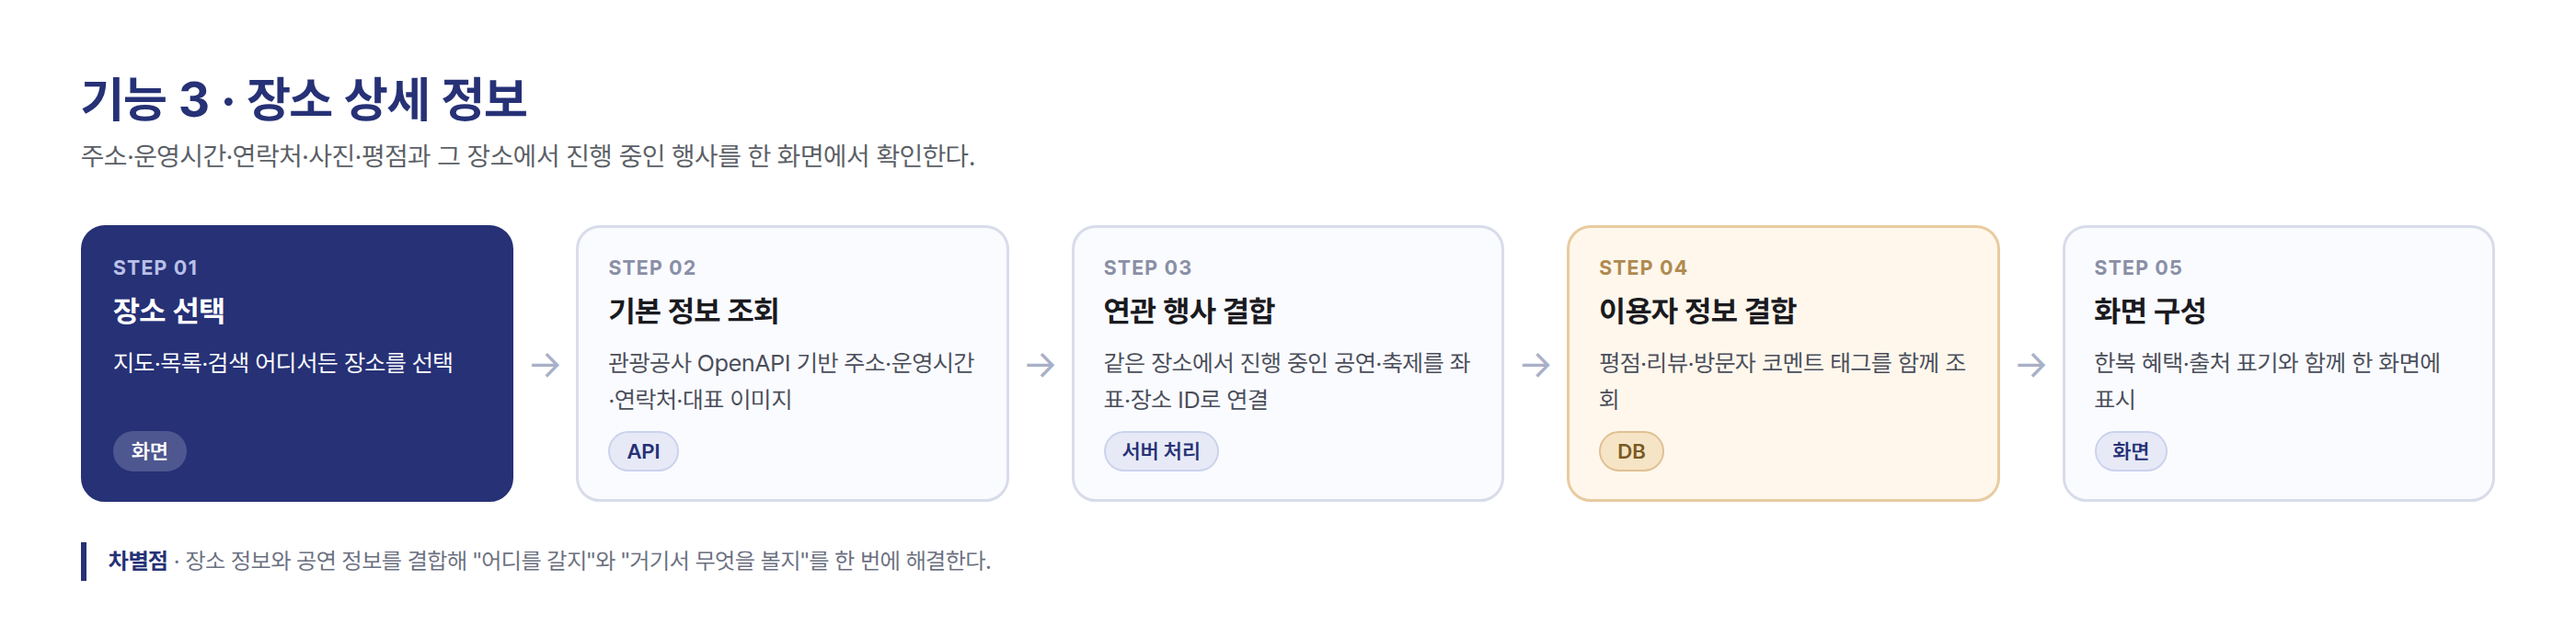
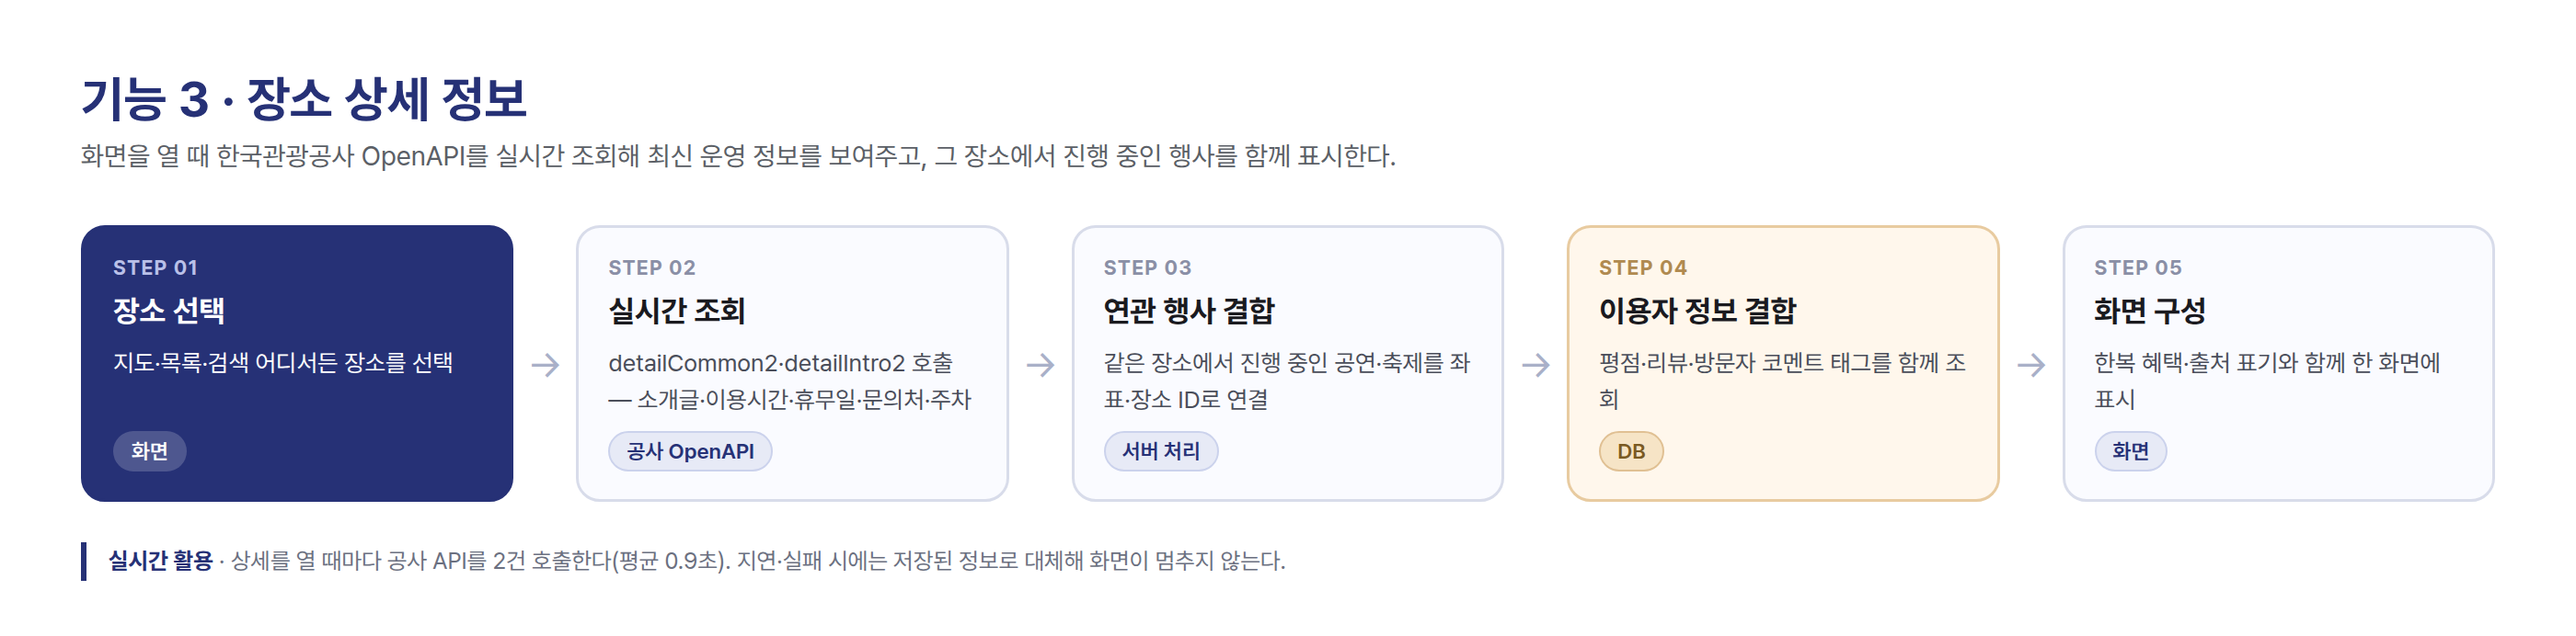
docs: 기능설명서 초안 + 실시간 조회 반영, 수치 갱신
공모전 지정 양식에 옮겨 적을 6개 항목 전체 초안을 추가한다. 서비스 개요,
주제 선정 이유, 핵심기능, 흐름도 설명, API 목록과 반영 화면, 차별성,
발전계획까지 채웠다. 다국어·지역특화처럼 사실이 아닌 항목은 넣지 않았다.

4번 데이터 활용은 실시간/정기 두 방식으로 나눠 적었다. 상세 화면의
detailCommon2·detailIntro2 실시간 호출과, 전국 지도 탐색을 위한 정기 수집을
구분해 로컬 DB 저장 방식을 택한 이유를 함께 밝힌다.

인증키가 8/1부터 막혀 있던 것을 복구하고 재동기화한 결과로 수치를 갱신했다.
  장소 29,466 → 29,541 · 행사 8,956 → 9,059 · 전통 행사 1,302 → 1,306

흐름도 3번(장소 상세)과 스토어 스크린샷도 실시간 조회가 반영된 화면으로
다시 만들었다.

점검 스크립트는 응답이 커서 일부만 읽으면 JSON 파싱이 실패하던 것을
resultCode 기준 판정으로 고쳤다(정상인데 "응답 이상"으로 나오던 문제).

Claude-Session: https://claude.ai/code/session_0189LLCe4HXZJT526WbUcYHm

diff --git a/docs/submission/flows.html b/docs/submission/flows.html
@@ -54,13 +54,13 @@ const FLOWS = {
       ["05","상세 이동","핀을 누르면 요약 카드 → 장소 상세 화면으로 이동","화면",0]],
    n:"<b>개인정보</b> · 획득한 좌표는 지도 중심 이동에만 쓰이며 서버로 전송·저장하지 않는다. <b>출처</b> · 장소 정보는 ⓒ한국관광공사."},
  f3:{t:"기능 3 · 장소 상세 정보",
-   u:"주소·운영시간·연락처·사진·평점과 그 장소에서 진행 중인 행사를 한 화면에서 확인한다.",
+   u:"화면을 열 때 한국관광공사 OpenAPI를 실시간 조회해 최신 운영 정보를 보여주고, 그 장소에서 진행 중인 행사를 함께 표시한다.",
    s:[["01","장소 선택","지도·목록·검색 어디서든 장소를 선택","화면",0],
-      ["02","기본 정보 조회","관광공사 OpenAPI 기반 주소·운영시간·연락처·대표 이미지","API",0],
+      ["02","실시간 조회","detailCommon2·detailIntro2 호출 — 소개글·이용시간·휴무일·문의처·주차","공사 OpenAPI",0],
       ["03","연관 행사 결합","같은 장소에서 진행 중인 공연·축제를 좌표·장소 ID로 연결","서버 처리",0],
       ["04","이용자 정보 결합","평점·리뷰·방문자 코멘트 태그를 함께 조회","DB",1],
       ["05","화면 구성","한복 혜택·출처 표기와 함께 한 화면에 표시","화면",0]],
-   n:"<b>차별점</b> · 장소 정보와 공연 정보를 결합해 \"어디를 갈지\"와 \"거기서 무엇을 볼지\"를 한 번에 해결한다."},
+   n:"<b>실시간 활용</b> · 상세를 열 때마다 공사 API를 2건 호출한다(평균 0.9초). 지연·실패 시에는 저장된 정보로 대체해 화면이 멈추지 않는다."},
  f4:{t:"기능 4 · 여행 일정 만들기",
    u:"가고 싶은 곳을 담아 하루 일정을 구성하고 실제 이동 경로와 소요 시간을 확인한다.",
    s:[["01","일정 생성","제목과 여행 날짜를 입력하거나 추천 코스를 그대로 복사","화면",0],

diff --git a/docs/submission/기능설명서-내용.md b/docs/submission/기능설명서-내용.md
@@ -1,0 +1,170 @@
+# 기능설명서 작성 내용 — 벼리
+
+> 공모전이 제공하는 **지정 양식(hwp/docx)에 아래 내용을 옮겨 적고 PDF로 변환**해 제출한다.
+> 임의 양식으로 제출하면 심사 대상에서 제외된다.
+> 수치는 2026-08-31 재동기화 직후 기준 실제 DB 집계값이다. 제출 직전에 다시 확인할 것.
+
+---
+
+## 1. 서비스 소개
+
+### ① 서비스명
+벼리
+
+### ② 서비스 유형
+웹
+
+### ③ 서비스 개요
+
+전국의 관광 명소와 전통 공연·축제 정보를 한곳에 모아 지도에서 찾아보는 한국 전통문화 여행 가이드입니다.
+
+한국관광공사 OpenAPI의 관광지·문화시설·축제 정보와 공연 정보를 결합해, 국악·전통무용·마당극 등 전통을 주제로 한 행사를 별도로 분류하고 주변 명소와 함께 지도에 표시합니다. 마음에 드는 곳을 담아 하루 일정을 만들고 실제 이동 경로와 소요 시간까지 확인할 수 있습니다.
+
+장소와 공연을 찾아보는 기능은 로그인 없이 모두 이용할 수 있으며, 즐겨찾기·리뷰·여행 일정 저장만 로그인이 필요합니다.
+
+### ④ 주제 선정 이유
+
+전통 공연·축제 정보와 관광 명소 정보는 서로 다른 기관이 각각 제공하고 있어 흩어져 있습니다. 국악 공연을 보러 가면서 근처 고궁이나 한옥 카페를 함께 둘러보고 싶어도, 공연 정보 사이트와 관광 정보 사이트를 따로 오가며 위치를 대조해야 합니다.
+
+전통문화를 접하는 일이 번거로운 이유는 콘텐츠가 부족해서가 아니라 **정보가 연결되어 있지 않기 때문**이라고 보았습니다. 실제로 한국관광공사 OpenAPI에는 전국 관광 정보가, 공연예술통합전산망에는 공연 정보가 충분히 공개되어 있습니다.
+
+벼리는 이 둘을 하나의 지도 위에 결합해, 전통문화를 '보러 가는 일'이 아니라 '여행하는 일'로 만들고자 했습니다. 이름 '벼리'는 그물을 오므렸다 폈다 하는 굵은 줄을 뜻하는 순우리말로, 흩어진 정보를 하나로 엮는다는 뜻을 담았습니다.
+
+### ⑤ 서비스 핵심기능
+
+1. **전통 테마 행사 큐레이션** — 공연·축제 데이터에서 전통을 주제로 한 행사만 자동 분류해 1,306건 제공
+2. **지도 기반 주변 탐색** — 현재 위치 중심으로 관광지·문화시설·공연장·음식점을 지도에 표시
+3. **장소 상세 정보** — 한국관광공사 OpenAPI 실시간 조회로 소개글·이용시간·휴무일·문의처를 최신 값으로 표시하고, 그 장소에서 진행 중인 행사를 함께 확인
+4. **여행 일정 만들기** — 방문지를 담아 하루 일정을 구성하고 실제 이동 경로·소요 시간 확인
+5. **리뷰와 이용자 보호** — 방문 후기 작성, 부적절한 콘텐츠 신고 및 이용자 차단
+
+### ⑥ 서비스 대표 이미지 (1장)
+`docs/store/feature-graphic-1024x500.png`
+
+### ⑦ 서비스 상세 이미지 (3~5장)
+1. `docs/store/screenshots/01-home.png` — 홈: 오늘의 추천·전통 테마 행사·맞춤 추천
+2. `docs/store/screenshots/02-traditional-events.png` — 전통 테마 행사 목록
+3. `docs/store/screenshots/03-venue-detail.png` — 장소 상세: 한복 혜택·운영시간·진행 중인 행사
+4. `docs/store/screenshots/04-explore.png` — 루트 탐색
+
+---
+
+## 2. [선택] 지역 특화 서비스 구현 세부내용
+
+**해당 없음** — 전국 단위 서비스입니다.
+
+> 지역특화 가점(2점)은 전국 단위 서비스에는 적용되지 않으며 서울도 제외 대상입니다.
+> 본 서비스는 전국 29,541곳을 대상으로 하므로 해당 항목을 작성하지 않습니다.
+
+---
+
+## 3. 서비스 핵심 기능별 흐름도
+
+> 흐름도 이미지 5장: `docs/submission/flows/01~05*.png`
+
+### ① 핵심 기능명 및 설명
+
+**기능 1 · 전통 테마 행사 큐레이션**
+공연·축제 데이터에서 전통을 주제로 한 행사만 자동 분류해 별도로 제공합니다. 장르 코드만으로는 분류가 어려워 제목과 주최기관 키워드를 함께 검사합니다. 현재 1,306건이 전통 행사로 분류되어 있습니다.
+
+**기능 2 · 지도 기반 주변 탐색**
+현재 위치를 중심으로 주변 관광지·문화시설·공연장·음식점을 지도에 표시합니다. 카테고리와 한복 혜택 여부로 걸러볼 수 있습니다. 위치 정보는 지도 중심을 옮기는 데만 사용하며 서버로 전송하거나 저장하지 않습니다.
+
+**기능 3 · 장소 상세 정보**
+주소·사진·평점과 함께, 화면을 열 때 한국관광공사 OpenAPI를 실시간 조회해 소개글·이용시간·휴무일·문의처·주차 정보를 최신 값으로 보여줍니다. 같은 장소에서 진행 중인 공연·축제도 함께 표시해, 장소 정보와 행사 정보를 오가지 않아도 됩니다.
+
+**기능 4 · 여행 일정 만들기**
+가고 싶은 곳을 담아 하루 일정을 구성합니다. 방문 순서를 정하면 카카오모빌리티 길찾기로 실제 이동 경로를 계산해 구간별 색상으로 지도에 그리고 총 거리와 소요 시간을 보여줍니다.
+
+**기능 5 · 리뷰와 이용자 보호**
+방문 후기를 별점과 함께 남깁니다. 부적절한 리뷰나 장소는 사유와 함께 신고할 수 있고, 특정 이용자를 차단하면 그 사람이 쓴 리뷰가 보이지 않습니다. 차단 목록은 마이페이지에서 관리하며 언제든 해제할 수 있습니다.
+
+### ② 기능 흐름도
+(위 이미지 5장 삽입)
+
+---
+
+## 4. 데이터 활용 (한국관광공사 OpenAPI)
+
+### ① 서비스 개발에 활용한 한국관광공사 OpenAPI 리스트
+
+**서비스명**: 한국관광공사_국문 관광정보 서비스_GW
+**Base URL**: `https://apis.data.go.kr/B551011/KorService2/`
+
+본 서비스는 공사 OpenAPI를 **두 가지 방식으로 함께** 활용합니다.
+
+**(1) 실시간 조회** — 사용자가 장소 상세 화면을 열 때마다 호출
+
+| 오퍼레이션 | 활용 내용 | 반영 화면 |
+|---|---|---|
+| `detailCommon2` | 장소 소개글·홈페이지를 요청 시점에 조회 | 장소 상세 상단 소개글 |
+| `detailIntro2` | 이용시간·휴무일·문의처·주차 정보를 요청 시점에 조회 | 장소 상세 정보 영역 |
+
+목록 데이터에 포함되지 않는 항목이라 상세 화면에서 공사 API를 직접 조회해 최신 값을 표시합니다. 장소 하나를 열 때 2건이 호출되며, 평균 응답은 약 0.9초입니다. 조회가 지연되거나 실패하면(연결 2초·읽기 3초 제한) 화면이 멈추지 않도록 저장된 정보로 대체해 표시합니다.
+
+**(2) 정기 수집** — 전국 단위 지도·목록 탐색을 위한 사전 수집
+
+| 오퍼레이션 | 활용 내용 | 반영 화면 |
+|---|---|---|
+| `areaBasedList2` | 지역 기반 관광지·문화시설·음식점·숙박 정보 | 홈 맞춤 추천, 지도 주변 탐색, 검색 |
+| `searchFestival2` | 행사·축제 정보 | 홈 전통 테마 행사, 전통 행사 목록, 장소 상세의 진행 중인 행사 |
+| `ldongCode2` | 법정동 코드 조회 (주소 → 지역 매핑) | 지역별 탐색 필터 |
+| `lDongSignguCd` | 시군구 코드 조회 | 지역별 탐색 필터 |
+
+지도에서 다수 지점을 동시에 표시하고 카테고리·지역으로 즉시 거르려면 매 요청마다 전국 데이터를 호출할 수 없어, 매일 정기 동기화로 수집한 뒤 서비스에 반영합니다.
+
+**활용 규모**: 위 API로 수집한 장소 29,535건, 축제·행사 368건이 서비스에 반영되어 있으며, 이 중 29,533곳은 공사 콘텐츠 ID를 보유해 상세 화면에서 실시간 조회가 이루어집니다.
+
+**출처 표기**: 장소 상세 화면과 마이페이지 '데이터 출처' 항목에 `출처: ⓒ한국관광공사`로 표기하고 있습니다. API 서비스명 단독 표기는 사용하지 않았습니다.
+
+---
+
+## 5. [선택] 데이터 활용 (기타)
+
+| 데이터 | 제공 | 활용 내용 |
+|---|---|---|
+| 공연예술통합전산망(KOPIS) | (재)예술경영지원센터 | 공연 정보 7,953건 — 전통 공연 분류의 기반 |
+| 서울시 문화행사 정보 | 서울시 열린데이터광장 | 문화행사 737건 |
+| 카카오맵 API | 카카오 | 지도 표시, 장소 키워드 검색 |
+| 카카오모빌리티 길찾기 API | 카카오모빌리티 | 여행 일정의 이동 경로·소요 시간 계산 |
+
+---
+
+## 6. 서비스 차별성 & 발전계획
+
+### ① 서비스 차별성
+
+**1. 장소 정보와 공연 정보의 결합**
+대부분의 관광 서비스는 장소 정보만, 또는 공연 정보만 다룹니다. 벼리는 한국관광공사 OpenAPI의 장소 데이터와 공연 데이터를 좌표·장소 정보 기준으로 연결해, 장소 상세 화면에서 "여기서 지금 무엇이 열리는지"를 함께 보여줍니다. "어디를 갈지"와 "거기서 무엇을 볼지"를 한 번에 해결합니다.
+
+**2. 전통 행사 자동 분류**
+공공데이터는 전통 행사를 따로 구분해 주지 않습니다. 장르 코드(국악·전통무용·마당극)만으로는 놓치는 행사가 많아, 제목과 주최기관 키워드를 함께 검사하는 분류 규칙을 만들어 1,306건을 전통 행사로 선별했습니다.
+
+**3. 한복 착용 혜택 정보**
+한복을 입으면 무료 입장이나 할인이 되는 장소를 별도로 표시해, 전통문화 체험이 하나의 동선으로 이어지도록 했습니다.
+
+**4. 실시간 조회와 정기 수집의 병행**
+전국 단위 지도 탐색은 빠른 응답이 필요해 정기 수집한 데이터로 제공하고, 개별 장소의 운영 정보(이용시간·휴무일·문의처·주차)는 상세 화면을 열 때 공사 OpenAPI를 실시간 조회해 최신 값을 보여줍니다. 속도와 최신성을 함께 확보하기 위한 구조입니다.
+
+**5. 진입 장벽 없는 이용**
+장소·공연 조회, 지도 탐색은 로그인 없이 모두 이용할 수 있습니다. 개인 정보를 남기지 않고도 서비스의 핵심 가치를 경험할 수 있습니다.
+
+**6. 이용자 위치 정보를 수집하지 않음**
+지도의 현재 위치 기능은 기기 안에서만 좌표를 사용하고 서버로 전송하지 않습니다. 위치 정보를 저장하지 않는 구조로 설계했습니다.
+
+### ② 서비스 발전계획
+
+**1. 다국어 지원**
+한국관광공사 OpenAPI는 국문 외에 영문·일문·중문(간체/번체)·독일어·불어·스페인어·러시아어 서비스를 동일한 인증키로 제공합니다. 호출 대상만 교체하면 되므로, 방한 외국인 관광객 대상 다국어 서비스로 확장할 계획입니다.
+
+**2. 지역별 심화 큐레이션**
+현재 전국 데이터를 대상으로 하고 있으나, 지역별 전통문화 테마 코스(예: 전주 한옥마을 일대, 안동 하회마을 권역)로 심화해 지역 관광 활성화에 기여하고자 합니다.
+
+**3. 무장애 여행 정보 결합**
+한국관광공사 무장애 여행 API(KorWithService2)를 결합해, 고령자·장애인도 전통문화를 편하게 즐길 수 있도록 접근성 정보를 제공할 계획입니다.
+
+**4. 개인화 추천**
+즐겨찾기와 방문 이력을 기반으로 관심 지역·유형에 맞는 코스를 추천합니다.
+
+**5. 모바일 앱 배포**
+React Native로 개발되어 동일 코드베이스에서 안드로이드 앱 빌드가 완료된 상태입니다. Google Play 내부 테스트를 마쳤으며, 정식 등록을 진행할 계획입니다.
